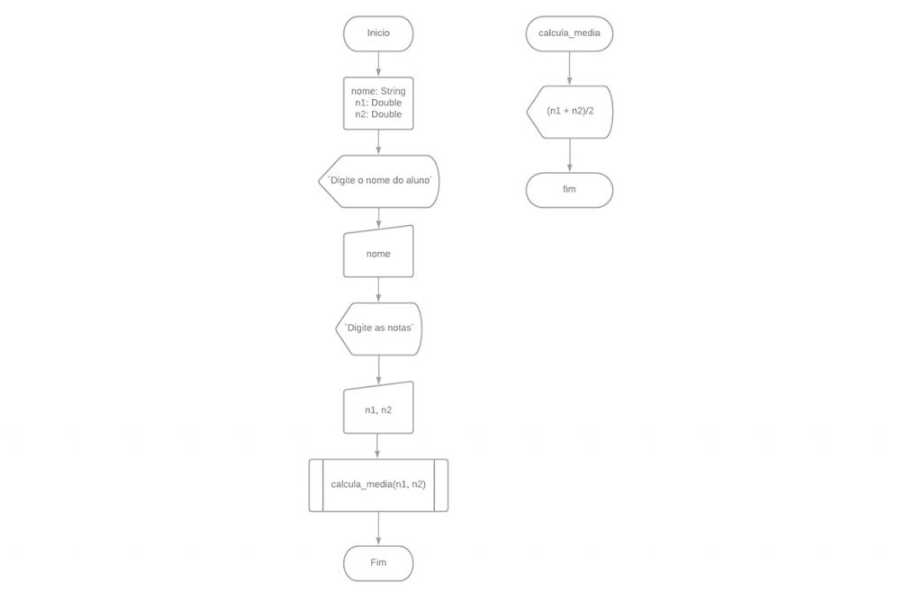
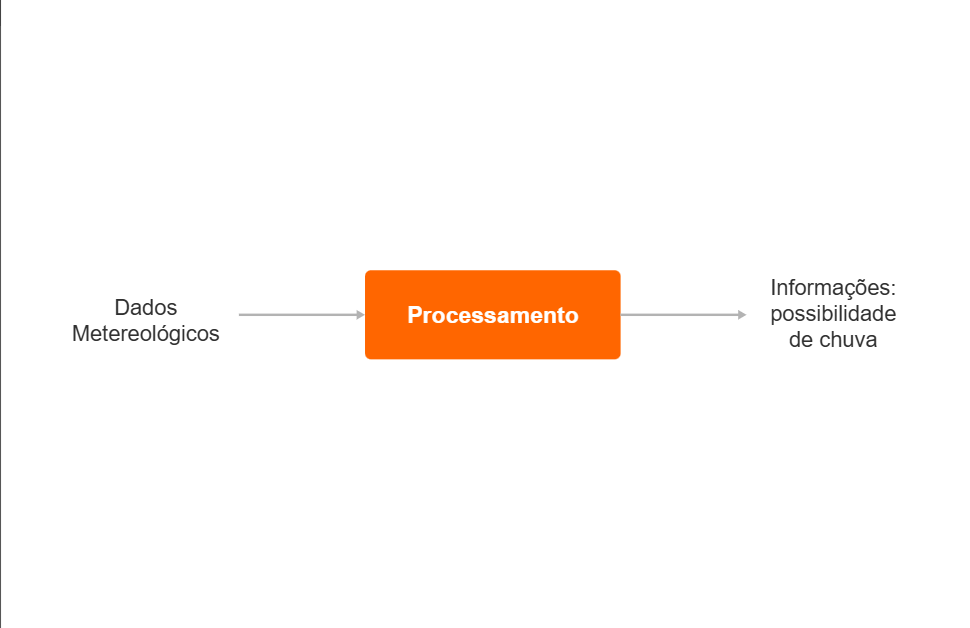
cap-8 [feat][docs] Anotações da Representação de informações em sistemas computacionais

diff --git a/README.md b/README.md
@@ -41,9 +41,12 @@
 
 # REPRESENTAÇÃO DE INFORMAÇÃO EM SISTEMAS COMPUTACIONAIS
 
-<details close>
-    <summary><code>VÍDEO | Definição de Estruturas de Dados</code></summary>
+![Esquema de entrada de dados, processamento e saída de resultados](img/img1.png)
 
+<details close>
+    <summary><code>IMAGEM | Esquema de entrada de dados, processamento e saída de resultados</code></summary>
+
+Dados Metereológicos ->  PROCESSAMENTO -> Informações: possibilidade de chuva
 
 </details>
 
@@ -51,13 +54,36 @@
 
 ## Tipos de Dados
 
+O que é um tipo de dado?
+
+> - São valores que podem ser assumidos.
+> - Operações que possam ser efetuadas
+
+Por exemplo, tipo de dado inteiro:
+
+- Valores que representam quantidades contáveis de objetos.
+- Operações: soma, subtração, multiplicação, divisão e resto da divisão.
+
+Alguns tipos de dados são compreendidos diretamente pelo processador, ou seja, na arquitetura interna do processador estão presentes unidades de aritmética que realizam as operações sobre esses tipos de dados. Esses tipos são ditos *dados **primitivos***, normalmente, são númetos inteiros com ou sem sinal, reais e caracteres.
+
+Para facilitar o uso de dados por programas, são definidos os tipos compoostos de dados, também conhecidos como *dados estruturados*, que são compostos internamente por vários dados primitivos ou não. Exemplos desses tipos de dados já estudados: vetores, matrizes e registros (dados de tipos diferentes são agrupados em um dado do tipo registro).
+
 <p align="right">(<a href="#readme-top">back to top</a>)</p>
 
 ## Tipos Abstratos de Dados vs Tipos "Concretos" de Dados
 
+> Deve-se distinguir tipos ***abstratos*** de dados e tipos ***concretos*** de dados
+
+- ***Tipos abstratos de dados (TAD)***: especificam as propriedades lógicas e matemáticas de um tipo de dados ou estrutura, tornando-se guias úteis para os programadores. Desta forma, um **TAD** não precisa levar em consideração como será o tipo de dado concreto que será usado no computador.
+- ***Tipos concretos de dados***: são aqueles escolhidos dentro das opções de tipos de dados oferecidos pela arquitetura do computador, ou seja, dentro das limitações inerentes do mundo digital.
+
+Na definição de um TAD, não é usual a preocupação com tempo, eficiência de processamento ou limitações de espaço, que são problemas de implementação. Não vamos estudar todas as técnicas e notações de **TAD**s, mas, sim, o uso de algumas delas em problemas de programação, com a finalidade de elaborarmos códigos que usem eficientemente os dados no processamento de aplicações.
+
 <p align="right">(<a href="#readme-top">back to top</a>)</p>
 
 # ORGANIZANDO DADOS EM ESTRUTURAS DE *LISTAS LINEARES*
+
+## Entendendo o que são Listas Lineares
 
 <details close>
     <summary><code>VÍDEO | Definindo Listas Lineares Encadeadas</code></summary>
